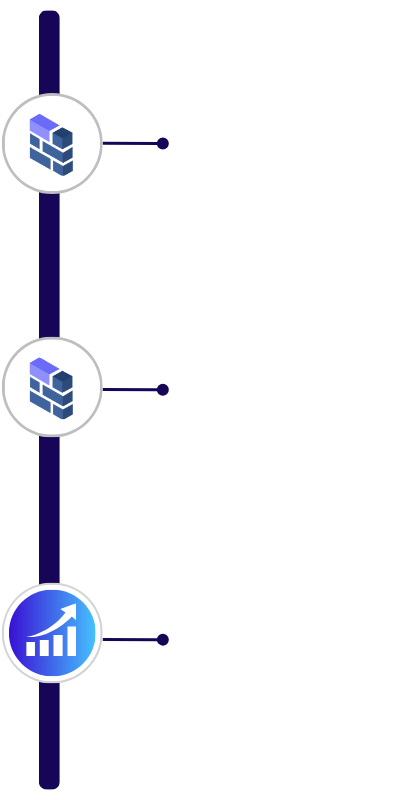
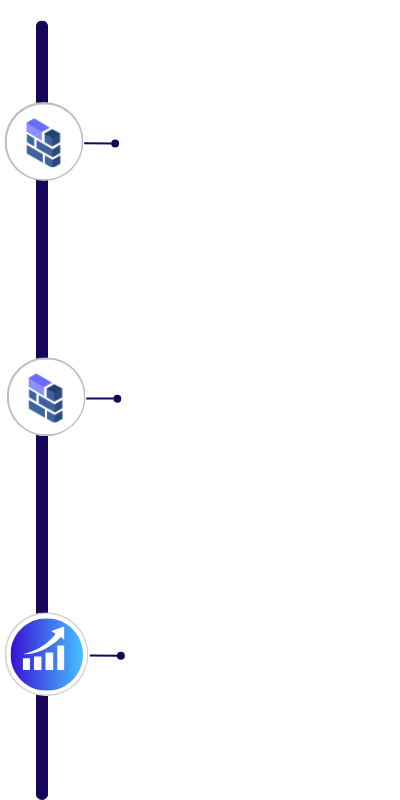
:hammer: ajust responsive

Changed region(s): [[0.0, 0.0, 0.42, 1.0]]

diff --git a/src/components/ImageIco.tsx b/src/components/ImageIco.tsx
@@ -101,7 +101,7 @@ const ComponentsText = () => (
       }}
       initial="hidden"
       whileInView="show"
-      className='absolute w-[50%] top-[5%] right-0 sm:w-auto md:left-[23%] md:-top-[25%] lg2:-top-[10%] xl2:-top-[10%]'
+      className='absolute w-[64%] top-[9%] right-3 sm:w-auto md:left-[23%] md:-top-[25%] lg2:-top-[10%] xl2:-top-[10%]'
       viewport={{ once: false, amount: 0.25 }}
     >
       <div className='text-xs md:leading-3 lg:leading-[0.8rem] lg:text-base flex flex-col gap-3'>
@@ -131,7 +131,7 @@ const ComponentsText = () => (
       }}
       initial="hidden"
       whileInView="show"
-      className='absolute w-[50%] top-[37%] right-0 md:w-auto md:left-[23%] md:top-[80%] lg:left-[23%] lg:-bottom-[10%]'
+      className='absolute w-[64%] top-[41%] right-3 md:w-auto md:left-[23%] md:top-[80%] lg:left-[23%] lg:-bottom-[10%]'
       viewport={{ once: false, amount: 0.25 }}
     >
         <div className='text-xs md:leading-3 md:text-base flex flex-col gap-3'>
@@ -160,7 +160,7 @@ const ComponentsText = () => (
         }}
         initial="hidden"
         whileInView="show"
-        className='absolute w-[50%] right-0 bottom-[12%] md:-right-[4%] md:bottom-[33%] lg:bottom-[36%] lg2:-right-[2%] xl2:-right-[2%] xl2:bottom-[40%]'
+        className='absolute w-[50%] right-3 bottom-[12%] md:-right-[4%] md:bottom-[33%] lg:bottom-[36%] lg2:-right-[2%] xl2:-right-[2%] xl2:bottom-[40%]'
         viewport={{ once: false, amount: 0.25 }}
       >
         <h4 className="text-lg lg2:text-2xl xl2:text-3xl text-left flex flex-col text-black md:text-center md:text-white">
